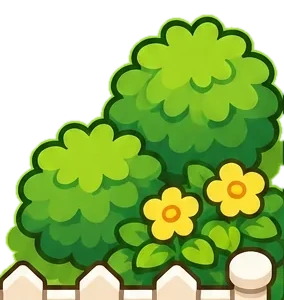
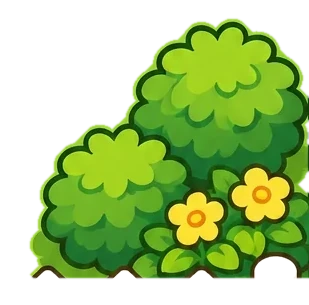
Home: wider doorway with steering, walk behind bushes and dog house, bushes rustle
Claude-Session: https://claude.ai/code/session_01WYXHXwKxHQowMAYmWZLpUL

diff --git a/index.html b/index.html
@@ -319,7 +319,7 @@
 <script>
 // ---- UI icon set (ui_icons.webp, 18 cells in one row) — emoji are shown until it loads ----
 // bump ASSET_V whenever an icon/emote picture changes, so phones download the new one instead of a cached copy
-var ASSET_V='20261120f';
+var ASSET_V='20261120g';
 const IC_N=['logo','pad','freeze','hide','zombie','fire','flash','run','shirt','gear','globe','trophy','girl','boy','jump','tag','logout','hello'];
 const IC={},IC_C={};
 function icFrom(img,i,name){const n=img.height,c=document.createElement('canvas');c.width=c.height=n;c.getContext('2d').drawImage(img,i*n,0,n,n,0,0,n,n);IC_C[name]=c;IC[name]=c.toDataURL();}
@@ -722,11 +722,18 @@ const HK=0.44;   // pictures drawn small (half the area of before) so the yard f
 const RK=0.62;   // the road keeps its size
 const HOME={W:2048*HK,H:200*RK+1536*HK,RH:200*RK,minY:22*RK,
   // walls, fences & furniture where feet can't go (x,y,w,h in home-world px, measured on home_yard / home_house pictures)
-  rects:[[0,200,435,165],[60,340,330,95],[600,200,424,165],[680,340,320,95],[0,200,45,1536],[0,1620,1024,116],[25,490,165,170],[50,1340,230,240],[240,1510,120,80],[750,1390,274,240],[1024,200,1024,195],[1999,200,49,1536],[1024,1648,1024,88],[1024,200,45,645],[1024,1010,45,726]].map(r=>({x:r[0]*HK,y:200*RK+(r[1]-200)*HK,w:r[2]*HK,h:r[3]*HK})),
+  rects:[[0,200,435,165],[60,340,330,95],[600,200,424,165],[680,340,320,95],[0,200,45,1536],[0,1620,1024,116],[45,625,150,32],[60,1525,215,58],[240,1515,120,70],[740,1598,284,40],[1024,200,1024,195],[1999,200,49,1536],[1024,1648,1024,88],[1024,200,45,615],[1024,1035,45,701]].map(r=>({x:r[0]*HK,y:200*RK+(r[1]-200)*HK,w:r[2]*HK,h:r[3]*HK})),
   spawn:{x:517*HK,y:120*RK},imgs:{}};
 // things you can walk behind (cut from the pictures): drawn again on top, sorted with the kids by the line where they touch the ground
-const HOME_PROPS=[["bushL", 15, 280, 185, 182, 445], ["dogh", 40, 1125, 328, 285, 1380], ["bushR", 740, 1170, 284, 300, 1440], ["gate", 380, 0, 320, 180, 165], ["wallD", 1024, 785, 80, 751, 812]];
-let HPROPS=null;function homeProps(){if(!HPROPS){HPROPS=HOME_PROPS.map(([n,x,y,w,h,b])=>{const im=new Image();im.src=`hp_${n}.webp?v=${ASSET_V}`;return {im,x:x*HK,y:HOME.RH+y*HK,w:w*HK,h:h*HK,base:HOME.RH+b*HK};});}return HPROPS.filter(o=>o.im.complete&&o.im.naturalWidth);}
+const HOME_PROPS=[["bushL", 40, 280, 165, 182, 445], ["dogh", 40, 1125, 328, 285, 1380], ["bushR", 715, 1165, 309, 305, 1440], ["gate", 380, 0, 320, 180, 165], ["wallD", 1024, 785, 80, 751, 812]];
+// a bush rustles while someone moves through / behind it
+function drawProp(o,dt){if(!o.sway){drawVis(o.im,o.im.width/o.w,o.x,o.y,o.w,o.h);return;}
+  const who=[P,...petsHere()].some(a=>a.x>o.x+o.w*.1&&a.x<o.x+o.w*.9&&a.y>o.y+o.h*.2&&a.y<o.base+6&&(a===P?P.moving:a.state==='walk'));
+  o.wob=who?Math.min(1,o.wob+dt*4):Math.max(0,o.wob-dt*1.5);o.ph+=dt*11;
+  if(o.wob<=0.01){drawVis(o.im,o.im.width/o.w,o.x,o.y,o.w,o.h);return;}
+  const sk=Math.sin(o.ph)*.07*o.wob,sq=1+Math.sin(o.ph*2)*.015*o.wob,cx=o.x+o.w/2;
+  ctx.save();ctx.translate(cx,o.base);ctx.transform(1,0,sk,sq,0,0);ctx.drawImage(o.im,-o.w/2,o.y-o.base,o.w,o.h);ctx.restore();}
+let HPROPS=null;function homeProps(){if(!HPROPS){HPROPS=HOME_PROPS.map(([n,x,y,w,h,b])=>{const im=new Image();im.src=`hp_${n}.webp?v=${ASSET_V}`;return {n,im,x:x*HK,y:HOME.RH+y*HK,w:w*HK,h:h*HK,base:HOME.RH+b*HK,sway:n.startsWith('bush'),wob:0,ph:0};});}return HPROPS.filter(o=>o.im.complete&&o.im.naturalWidth);}
 setTimeout(()=>{try{homeProps();homeImgs();}catch(e){}},1500);   // fetch the home pictures early so the yard appears at once
 let portalArmed=false;   // after arriving you must step away from the edge once before a portal works again
 const mapW=()=>MAPID==='home'?HOME.W:WORLD_W, mapH=()=>MAPID==='home'?HOME.H:WORLD_H, mapMinY=()=>MAPID==='home'?HOME.minY:MIN_Y;
@@ -848,6 +855,7 @@ function loop(now){const dt=Math.min(.05,(now-last)/1000);last=now;
   if(P.moving){vx/=len;vy/=len;
     const nd=DIRS[((Math.round(Math.atan2(vy,vx)/(Math.PI/4))%8)+8)%8];if(nd!==P.dir){P.dir=nd;drawStrip();}
     if(MG.on&&MG.mode==='zombie'&&P.role==='zombie')spdK*=zombieK();
+    if(MAPID==='home'){const wx=1024*HK+12,dy0=HOME.RH+725*HK;if(Math.abs(vx)>Math.abs(vy)&&Math.abs(P.x-wx)<55&&Math.abs(P.y-dy0)<70)P.y+=(dy0-P.y)*Math.min(1,dt*7);}
     const moved=tryMove(P,clamp(P.x+vx*S.speed*spdK*dt,TILE,mapW()-TILE),clamp(P.y+vy*S.speed*spdK*dt,mapMinY(),mapH()-(MAPID==='home'?30:TILE*.6)));
     checkPortals(vy);
     if(!moved){P.moving=false;P.stuck=(P.stuck||0)+dt;if(P.target&&!hold&&P.stuck>.3){P.target=null;}}else P.stuck=0;
@@ -872,7 +880,7 @@ function loop(now){const dt=Math.min(.05,(now-last)/1000);last=now;
   const items=[];if(MAPID==='school'){trees.forEach(t=>items.push({y:t[1],d:()=>drawTree(t[0],t[1])}));bushes.forEach(b=>items.push({y:b.y,d:()=>drawBush(b)}));
   NPCS.forEach(n=>{if(npcsOn()||n.mg)items.push({y:n.y,d:()=>drawActor(n,false)});});}
   REMOTE.forEach(a=>{if(sameMap(a))items.push({y:a.y,d:()=>drawActor(a,false)});});
-  if(MAPID==='home'){drawFood();petsHere().forEach(p=>items.push({y:p.y,d:()=>drawPet(p)}));homeProps().forEach(o=>items.push({y:o.base,d:()=>drawVis(o.im,o.im.width/o.w,o.x,o.y,o.w,o.h)}));}
+  if(MAPID==='home'){drawFood();petsHere().forEach(p=>items.push({y:p.y,d:()=>drawPet(p)}));homeProps().forEach(o=>items.push({y:o.base,d:()=>drawProp(o,dt)}));}
   items.push({y:P.y,d:()=>drawActor(P,true)});
   items.sort((a,b)=>a.y-b.y).forEach(i=>i.d());
   ctx.restore();
